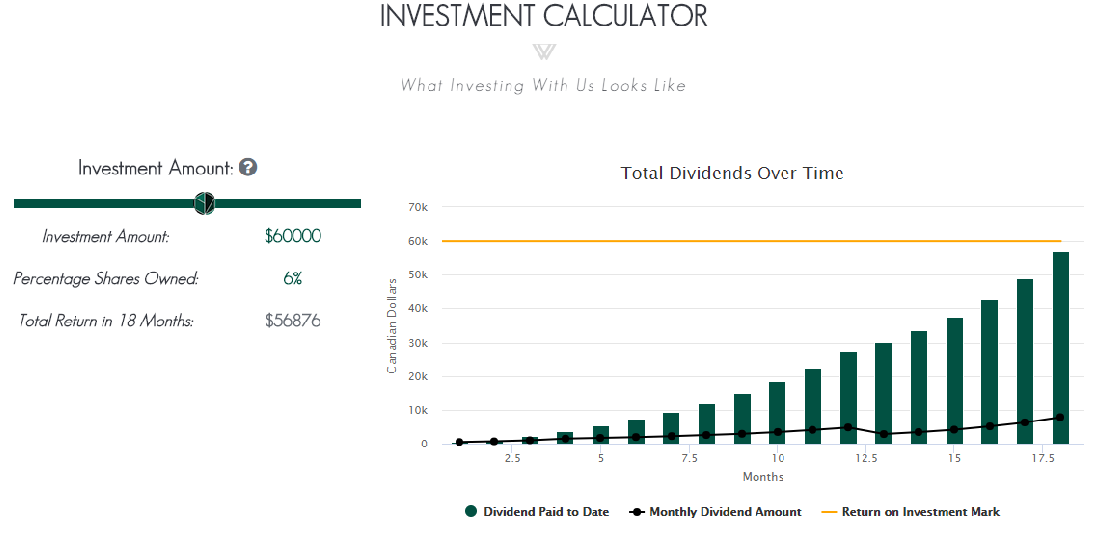
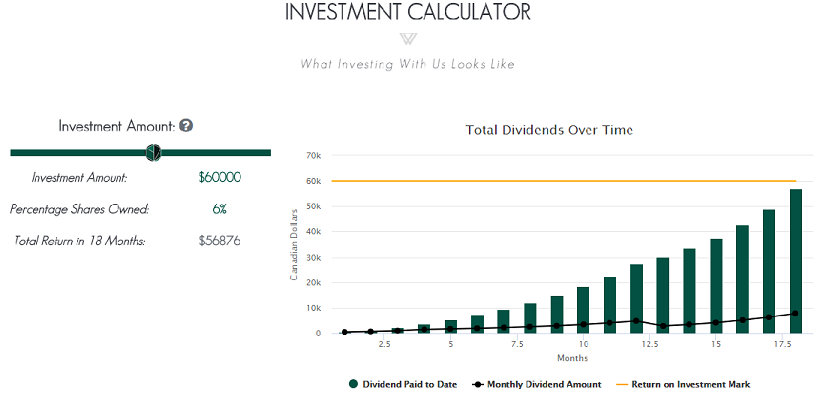
Changed the picture scaling for crypto project and temporarily removed it from templates.

diff --git a/home_pages/templates/projects.html b/home_pages/templates/projects.html
@@ -7,17 +7,19 @@
 	<div class="w-55 mt-5" id="body_text">
 		<ul class="custom-text-style sm-font">
 
-			<h2 class = "h2 mt-2">Data Mining Contract</h2>
+			<h2 class = "h2 mt-2">Marketing Website Contract</h2>
 			<div class ="sub-body">
 				<li class="list-unstyled">
 					A cryptocurrency company was looking to raise 10M in private equity from non-institutional investors. 
-					<br><br>
+					<br>
 					I was contracted to develop an interactive JavaScript module which calculated and graphed expected investment returns,
 					dividend payments, and equity costs based on the current and dynamically changing market value of ETH/CAD.
 				</li>
+				<!-- commented out because picture doesn't really fit in view well
 				<div class="projects-thumb zoom d-flex flex-row justify-content-center">
-					<img class="" src="" title="screenshot of module"/>
+					<img class="" src="/static/pictures/projects/crypto.png" title="screenshot of module"/>
 				</div>
+				-->
 				<br>
 			</div>
 

diff --git a/home_pages/templates/projects-mobile.html b/home_pages/templates/projects-mobile.html
@@ -14,9 +14,11 @@
 					I was contracted to develop an interactive JavaScript module which calculated and graphed expected investment returns,
 					dividend payments, and equity costs based on the current and dynamically changing market value of ETH/CAD.
 				</li>
-				<div class="projects-thumb zoom d-flex flex-row justify-content-center">
-					<img class="" src="" title="screenshot of module"/>
-				</div>
+				<!-- Commented out because picture doesnt look good on mobile
+					<div class="projects-thumb zoom d-flex flex-row justify-content-center">
+						<img class="" src="/static/pictures/projects/crypto.png" title="screenshot of module"/>
+					</div>
+				-->
 				<br>
 			</div>
 			<!-- Entry Start - Data mining-->
